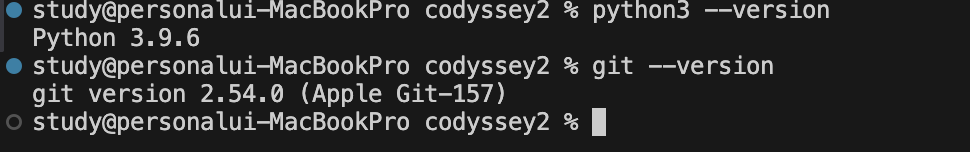
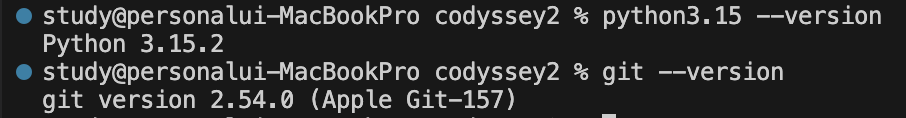
git 수정 및 브랜치 테스트

diff --git a/README.md b/README.md
@@ -153,6 +153,9 @@ no changes added to commit (use "git add" and/or "git commit -a")
 
 ### 6) git commit 현황
 ![git commit](screenshots/git_commit.png)
+```bash
+% git log --oneline --graph
+```
 ![git commit](screenshots/git_log_oneline_graph.png)
 
 ## 5. 실행방법
